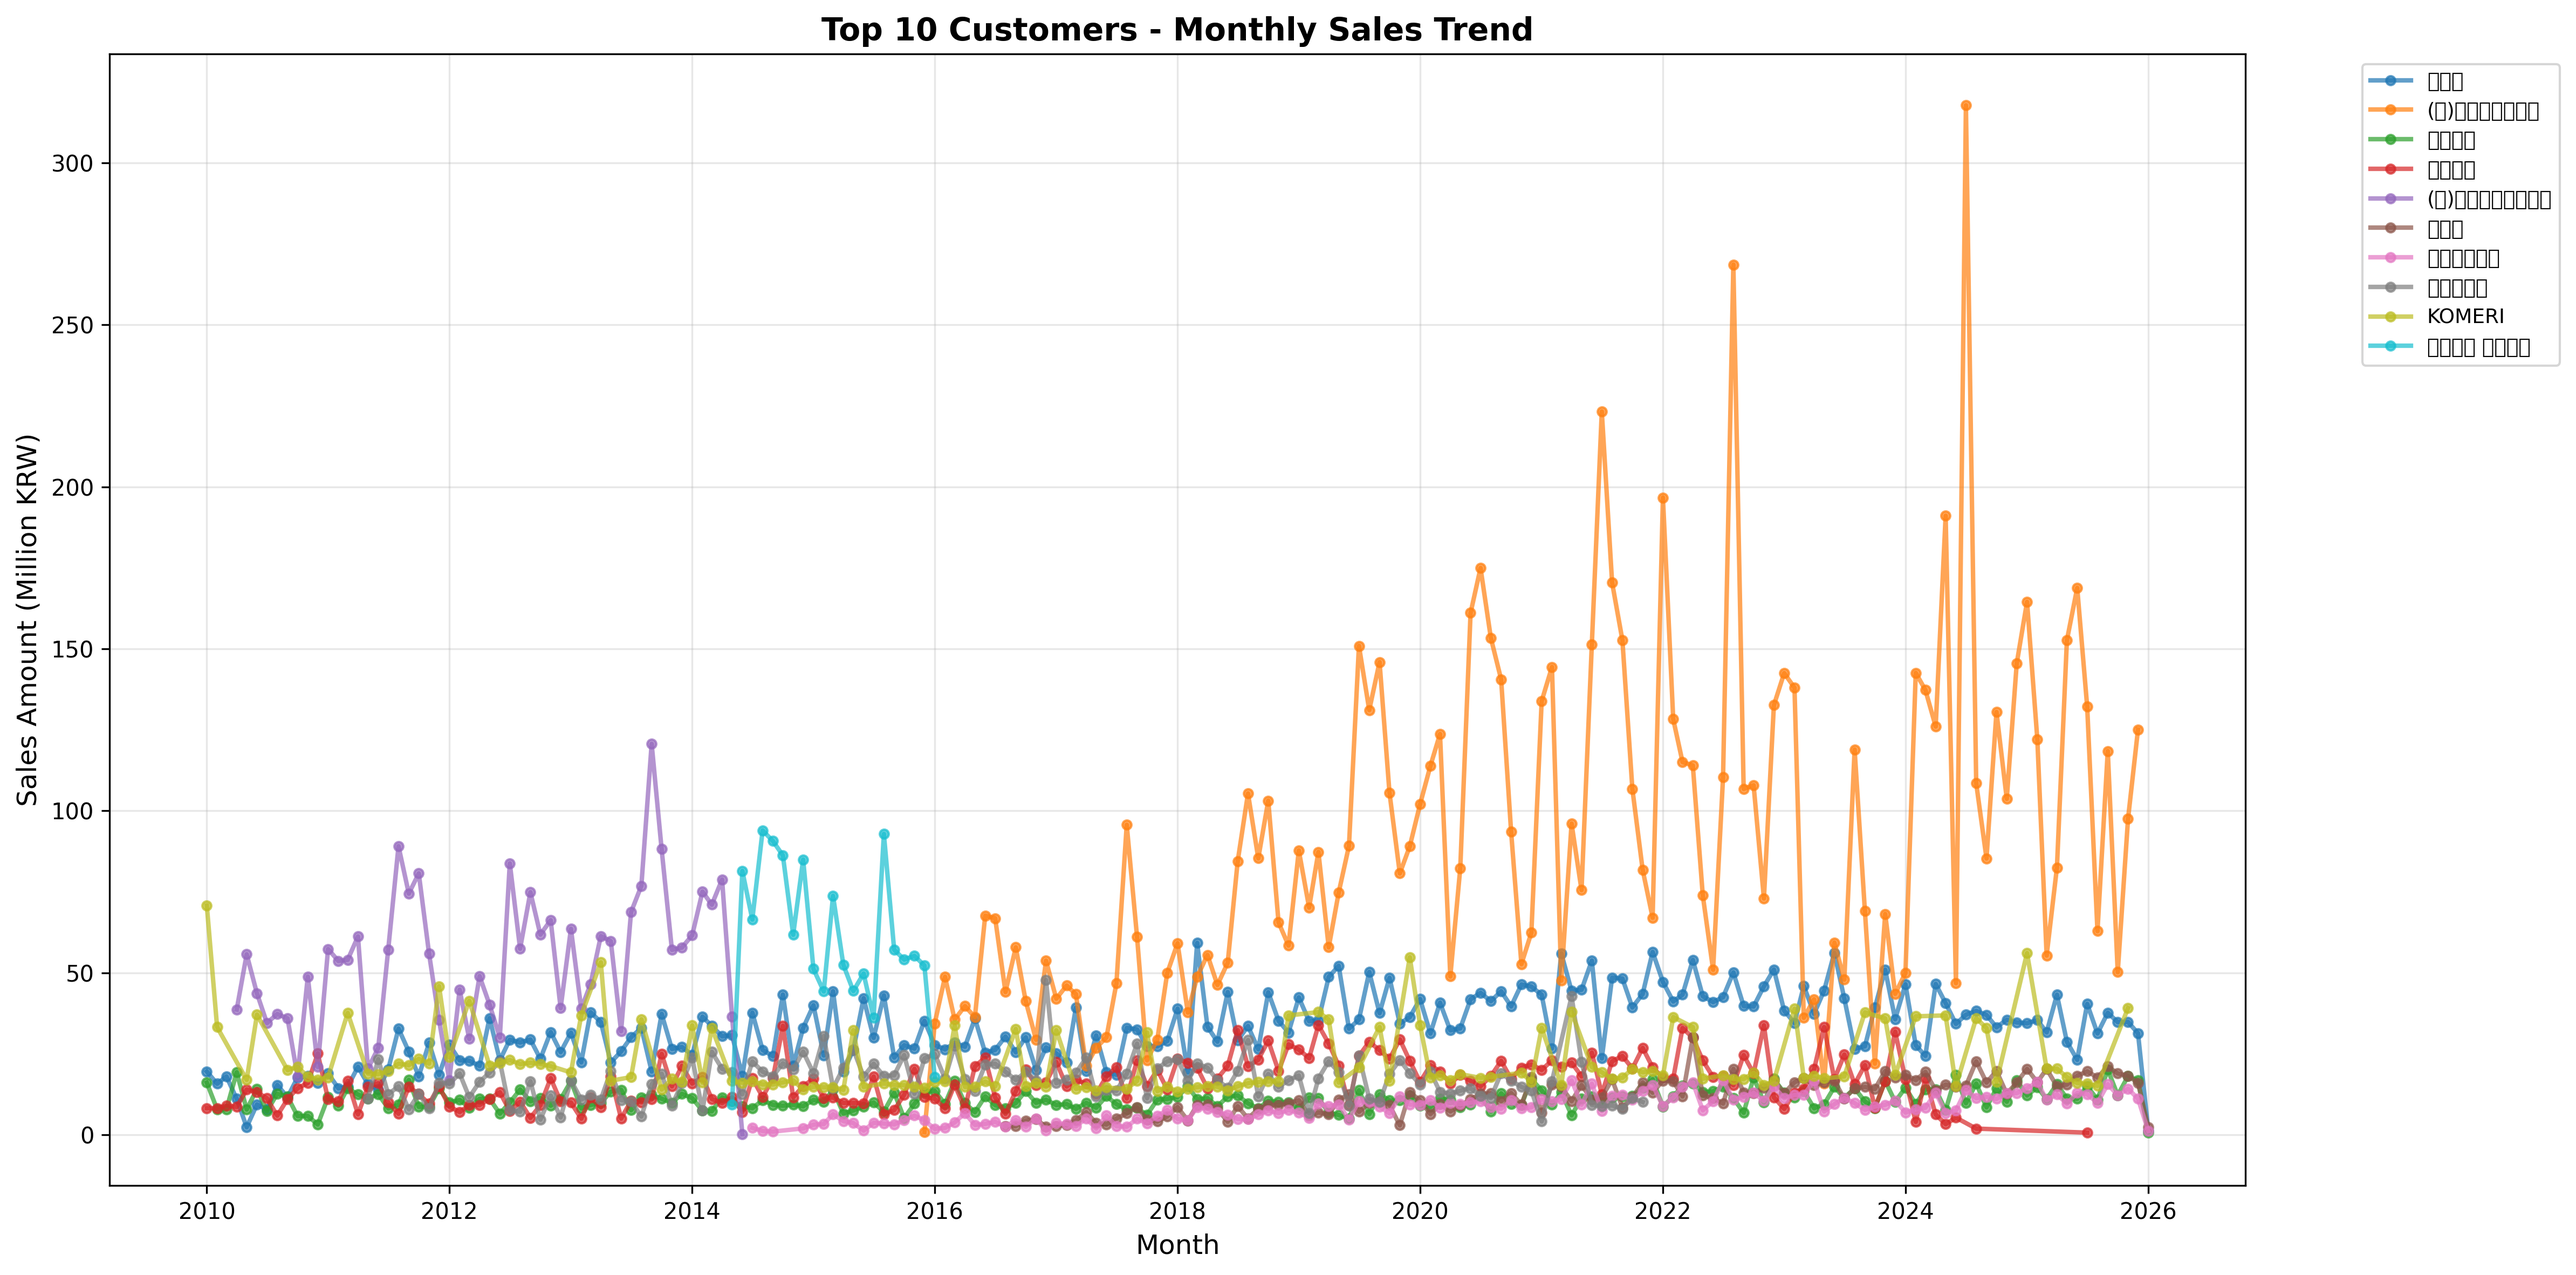
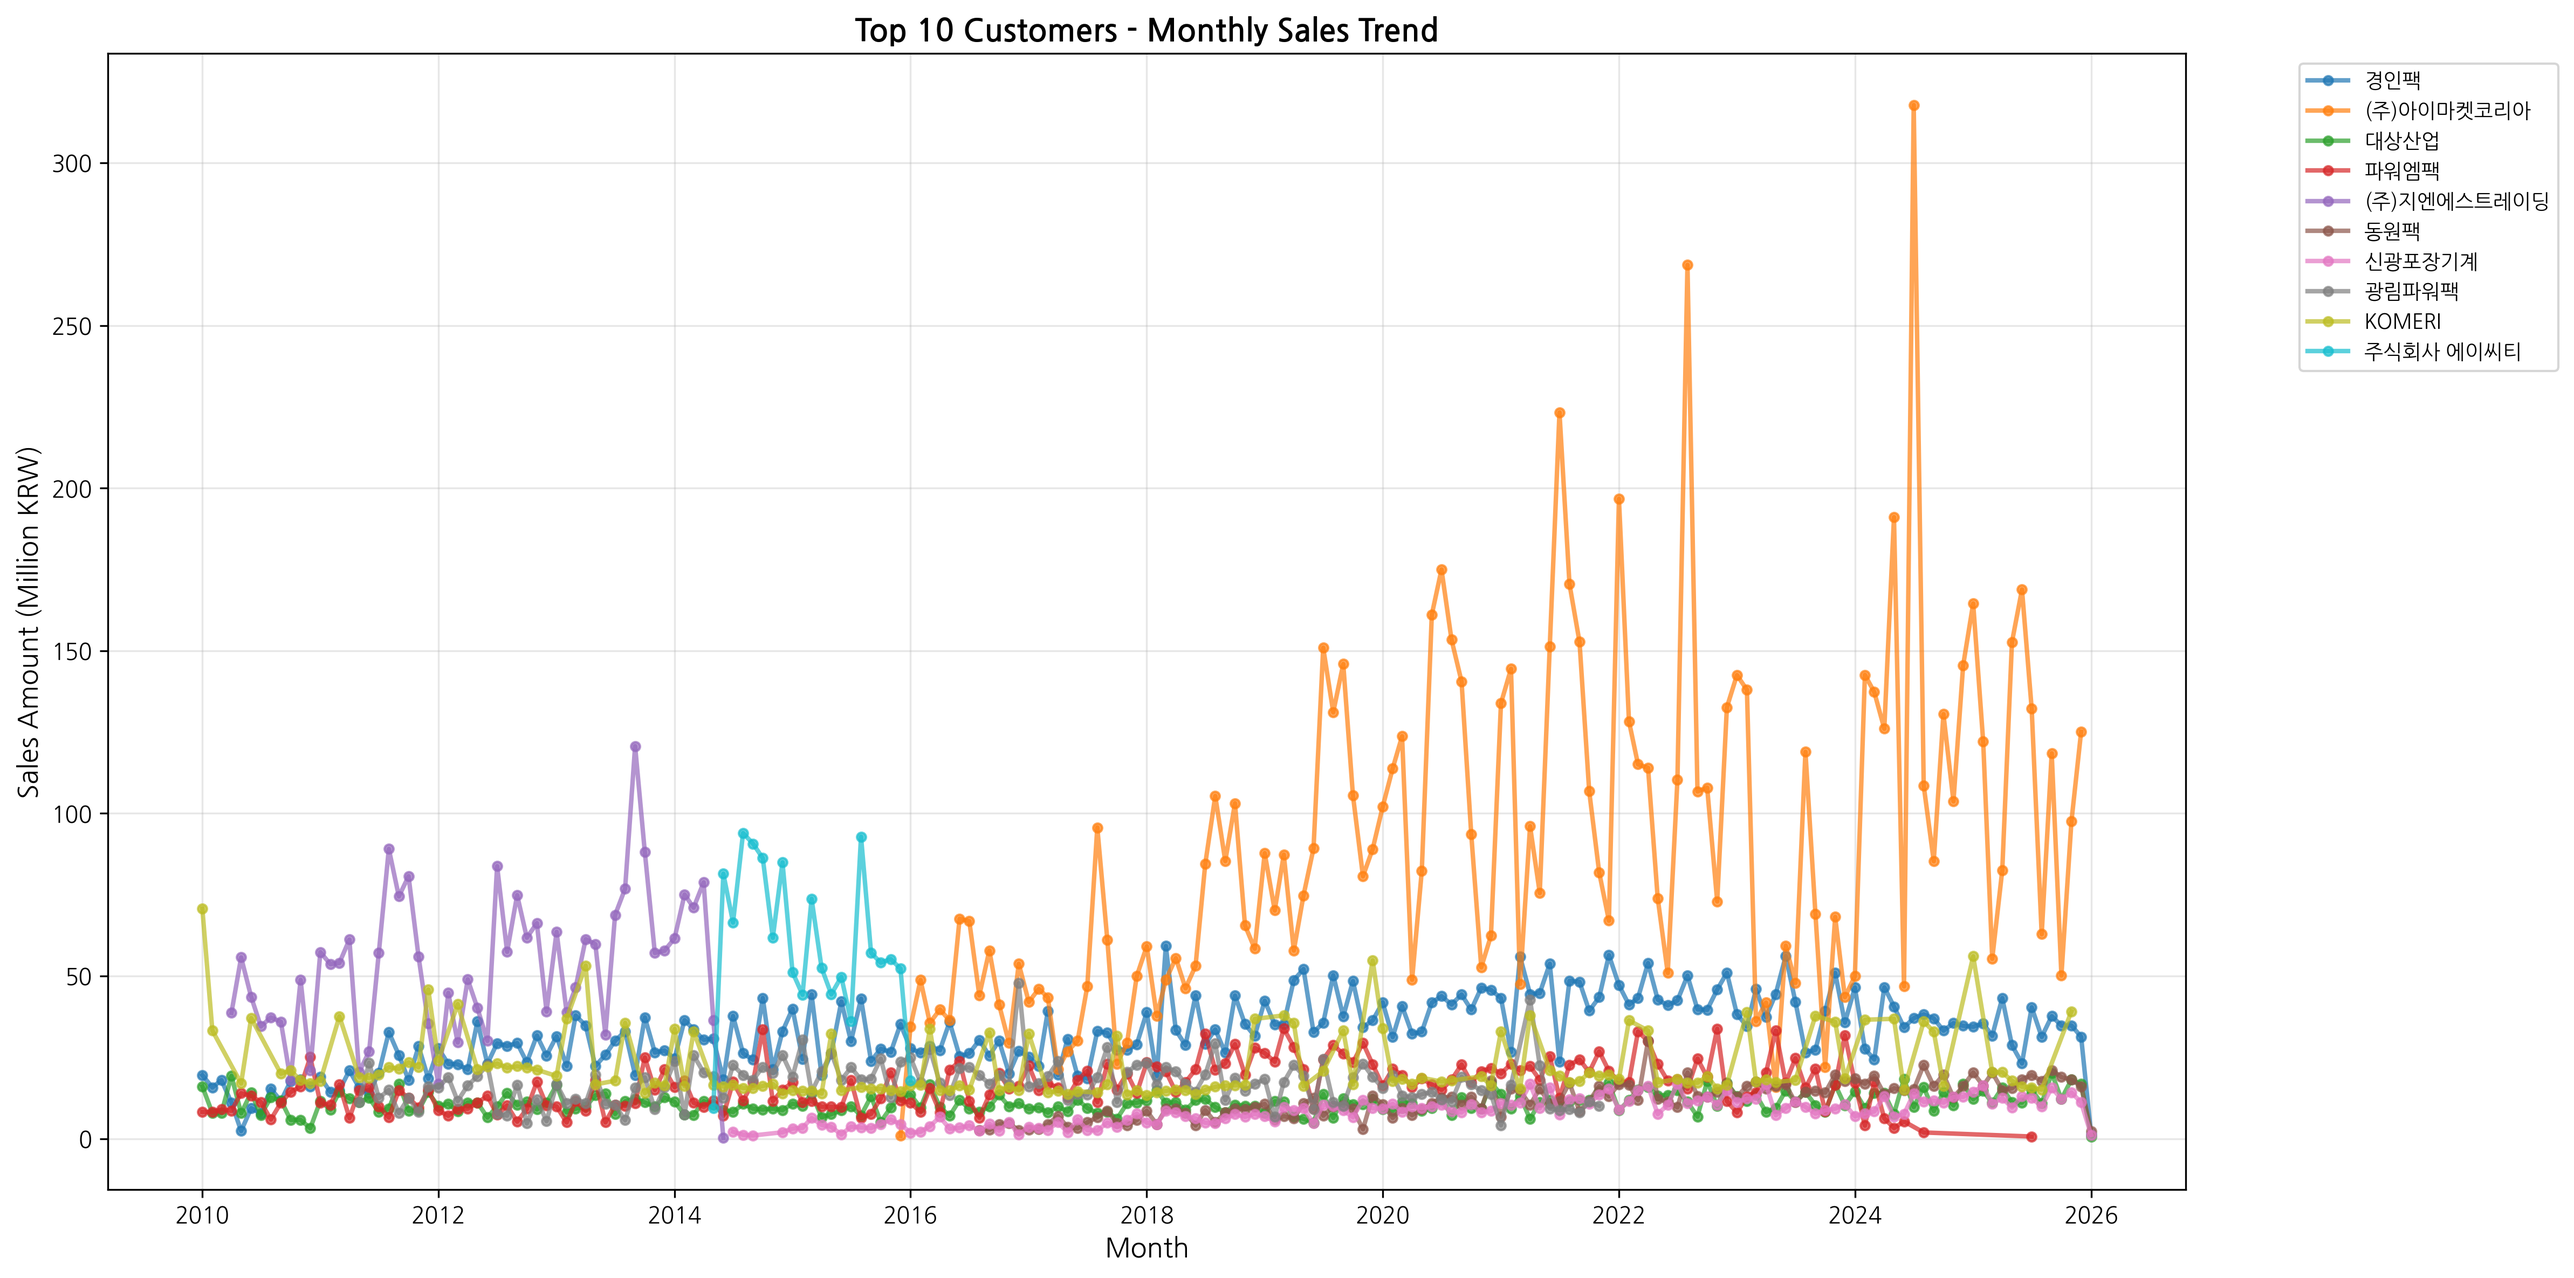
Fix Korean font display issue in visualizations
변경사항:
- matplotlib 한글 폰트를 NanumGothic으로 변경
- 모든 시각화 파일 재생성 (한글 제대로 표시)
- customer_demand_analysis.py 폰트 설정 수정
- visualization_and_insights.py 폰트 설정 수정

해결된 문제:
- 시각화에서 한글이 깨져서 표시되던 문제 해결
- 이제 모든 그래프의 한글 레이블이 정상적으로 표시됨

diff --git a/visualization_and_insights.py b/visualization_and_insights.py
@@ -13,6 +13,10 @@ import warnings
 warnings.filterwarnings('ignore')
 
 # 한글 폰트 설정
+import matplotlib.font_manager as fm
+
+# 나눔고딕 폰트 설정
+plt.rcParams['font.family'] = 'NanumGothic'
 plt.rcParams['axes.unicode_minus'] = False
 
 print("=" * 80)

diff --git a/customer_demand_analysis.py b/customer_demand_analysis.py
@@ -13,7 +13,7 @@ import warnings
 warnings.filterwarnings('ignore')
 
 # 한글 폰트 설정
-plt.rcParams['font.family'] = 'DejaVu Sans'
+plt.rcParams['font.family'] = 'NanumGothic'
 plt.rcParams['axes.unicode_minus'] = False
 
 print("=" * 80)
